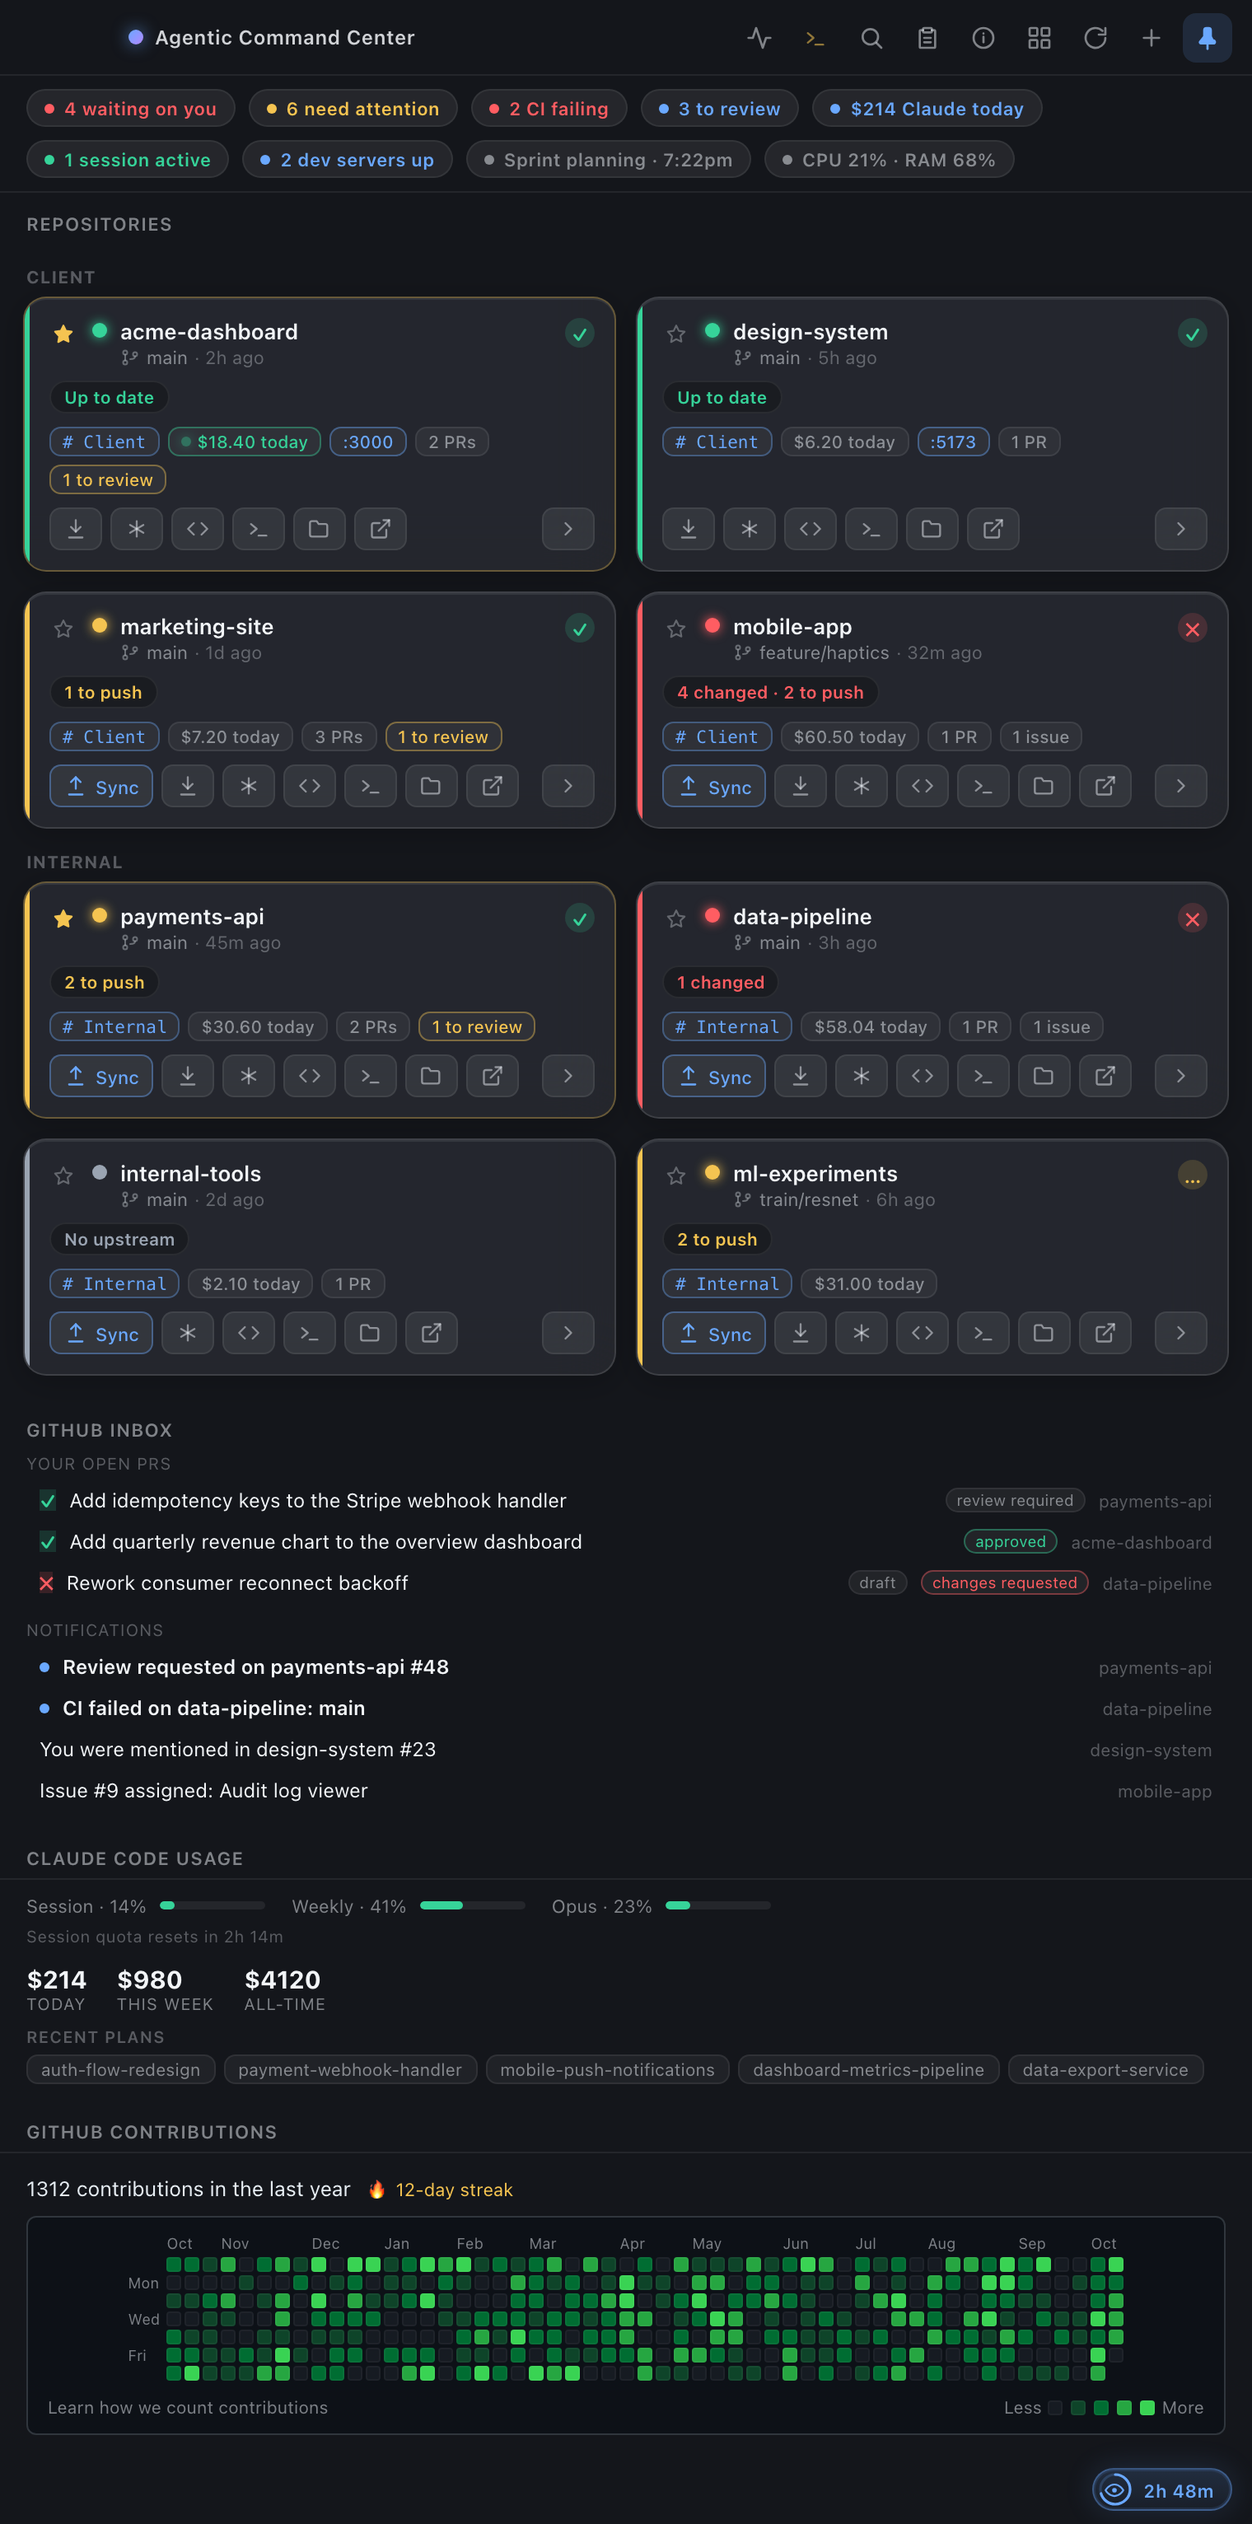
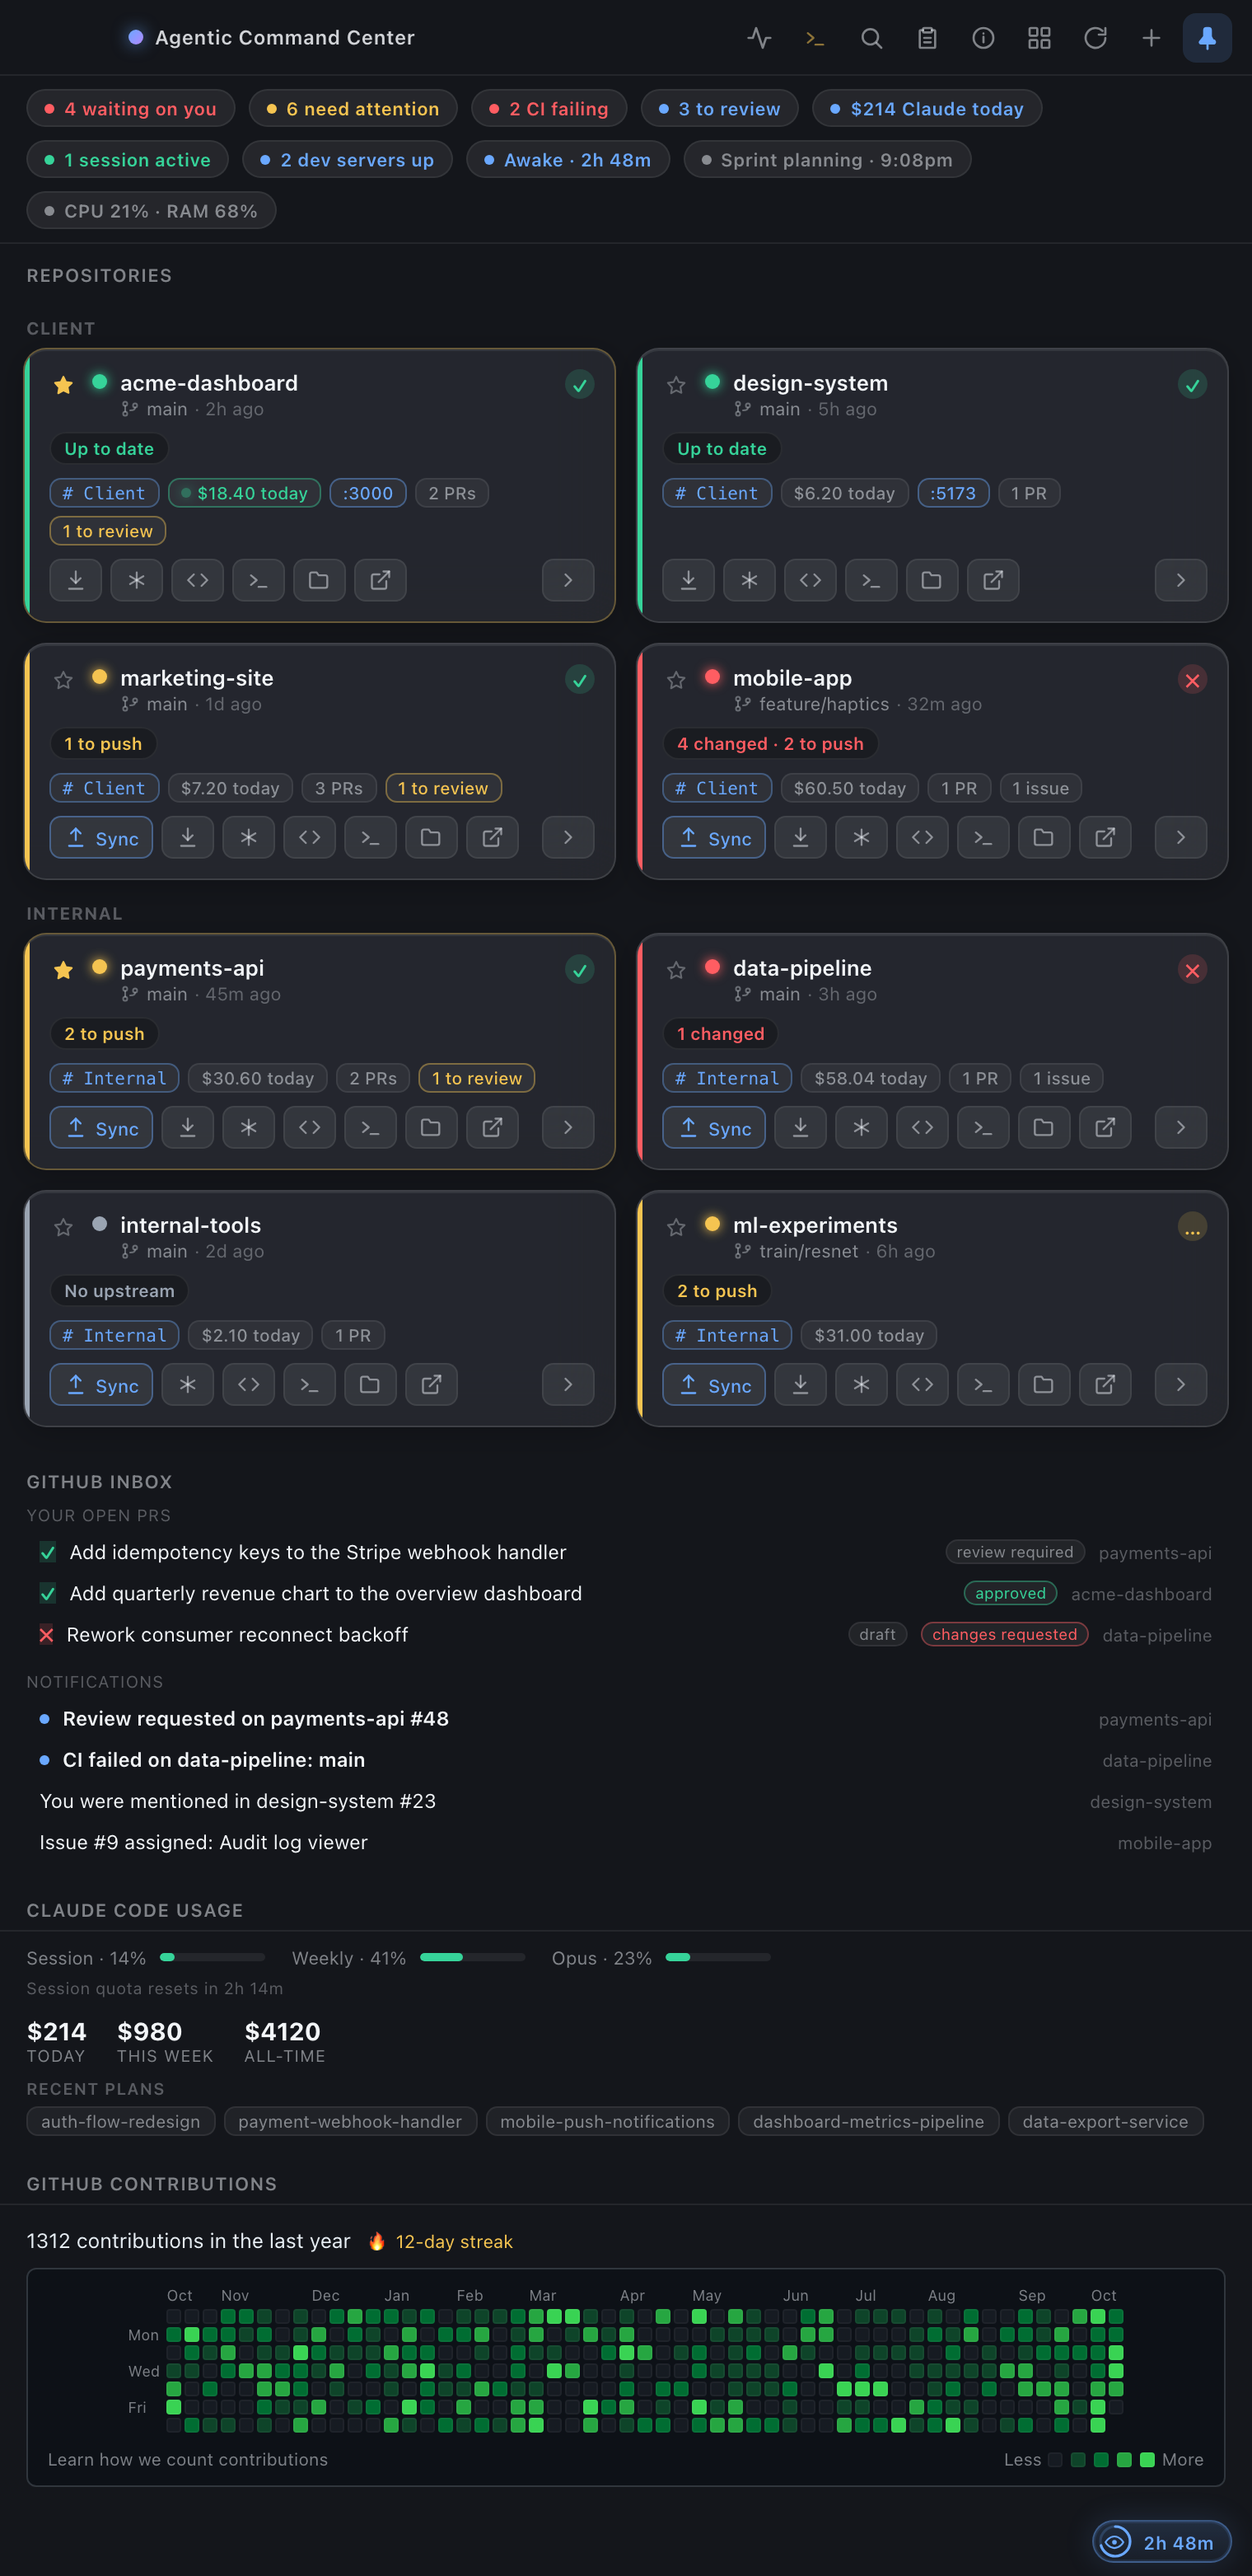
feat(awake): health-bar chip; skip lid actions when the Mac will sleep anyway
- An 'Awake · 2h 48m' chip joins the health bar while a session runs
  (amber when it only holds with the lid open), and flags a pending
  restore.
- Lid-close actions (mute, freeze, Low Power, display sleep) now run only
  when the session holds sleep off; without the rule the Mac sleeps on
  close, so they would only leave changes to undo on wake.
- Opening the popover now pushes refreshed access and battery state, so
  a rule installed outside the app shows immediately.

diff --git a/src/renderer/src/components/HealthBar.tsx b/src/renderer/src/components/HealthBar.tsx
@@ -4,10 +4,12 @@ import type {
   ClaudeActivity,
   DevServer,
   SystemStats,
-  CalendarData
+  CalendarData,
+  AwakeState
 } from '../../../shared/types'
 import { deriveState } from '../lib/status'
 import { fmtCost } from '../lib/format'
+import { countdown, endLabel } from '../lib/awake'
 
 interface Props {
   statuses: RepoStatus[]
@@ -18,6 +20,8 @@ interface Props {
   calendar: CalendarData | null
   /** Claude sessions currently blocked on the user (terminals panel). */
   agentsWaiting?: number
+  /** Keep-awake session, shown as a chip while one runs. */
+  awake?: AwakeState | null
 }
 
 function nextEvent(calendar: CalendarData | null): string | null {
@@ -49,7 +53,8 @@ export default function HealthBar({
   devServers,
   system,
   calendar,
-  agentsWaiting = 0
+  agentsWaiting = 0,
+  awake = null
 }: Props): JSX.Element {
   const attention = statuses.filter((s) => deriveState(s).needsAttention).length
   const ciFail = Object.values(insights).filter((i) => i.ci === 'fail').length
@@ -107,6 +112,26 @@ export default function HealthBar({
       tone: 'accent',
       label: `${devServers.length} dev server${devServers.length === 1 ? '' : 's'} up`,
       title: devServers.map((s) => `:${s.port} ${s.command}`).join('\n')
+    })
+  }
+
+  if (awake?.session) {
+    const ends = new Date(awake.session.endsAt)
+    chips.push({
+      key: 'awake',
+      tone: awake.mode === 'lid' ? 'accent' : 'amber',
+      label: `Awake · ${countdown(ends.getTime() - Date.now())}`,
+      title:
+        `Mac held awake until ${endLabel(ends)}` +
+        (awake.mode === 'lid' ? ', lid closed included' : ' — only while the lid is open') +
+        ' (bottom-right corner to change)'
+    })
+  } else if (awake?.restorePending) {
+    chips.push({
+      key: 'awake',
+      tone: 'amber',
+      label: 'Awake restore pending',
+      title: "An earlier awake session's changes are not all undone — open the corner awake panel"
     })
   }
 

diff --git a/src/main/awake.ts b/src/main/awake.ts
@@ -612,6 +612,10 @@ async function unmute(): Promise<void> {
 }
 
 async function onLidClosed(): Promise<void> {
+  // Without the sleep hold, closing the lid sleeps the Mac regardless, so
+  // muting or freezing on the way down only leaves things to undo on wake.
+  // (The lid-simulation test hook exercises them in either mode.)
+  if (J().mode !== 'lid' && !process.env.ACC_SIMULATE_LID) return
   const config = getAwakeConfig()
   if (config.muteOnLidClose) await muteForLid().catch(() => undefined)
   await freezeApps(config).catch(() => undefined)
@@ -974,11 +978,14 @@ export async function updateAwakeConfig(patch: Partial<AwakeConfig>): Promise<Aw
   return getAwakeState()
 }
 
+/** Re-read access and battery (the popover calls this as it opens) and push,
+ *  so a rule installed from Terminal or a charger plugged in shows at once. */
 export async function refreshAwake(): Promise<AwakeState> {
   await checkLidReady()
   const b = await readBattery()
   live.onBattery = b.onBattery
   live.batteryPercent = b.percent
+  push()
   return getAwakeState()
 }
 

diff --git a/src/renderer/src/App.tsx b/src/renderer/src/App.tsx
@@ -530,6 +530,7 @@ export default function App(): JSX.Element {
         system={system}
         calendar={calendar}
         agentsWaiting={agentsWaiting}
+        awake={awake}
       />
 
       <h2 className="section-title">Repositories</h2>

diff --git a/README.md b/README.md
@@ -223,6 +223,9 @@ A live, one-line summary directly under the toolbar. Each chip only appears when
 - **$X Claude today** — estimated Claude Code spend today (see [cost](#claude-code-usage--cost)).
 - **N sessions active** — Claude Code sessions touched in the last few minutes.
 - **N dev servers up** — running local servers mapped to an imported repo.
+- **Awake · 2h 48m** — an [awake session](#awake-sessions-keep-the-mac-awake) is holding the Mac
+  awake (blue = lid-close safe, amber = lid open only); *Awake restore pending* flags an unfinished
+  restore.
 - **&lt;event&gt; · time** — your next calendar event today.
 - **CPU x% · RAM y%** — system load (1-minute average) and memory use.
 
